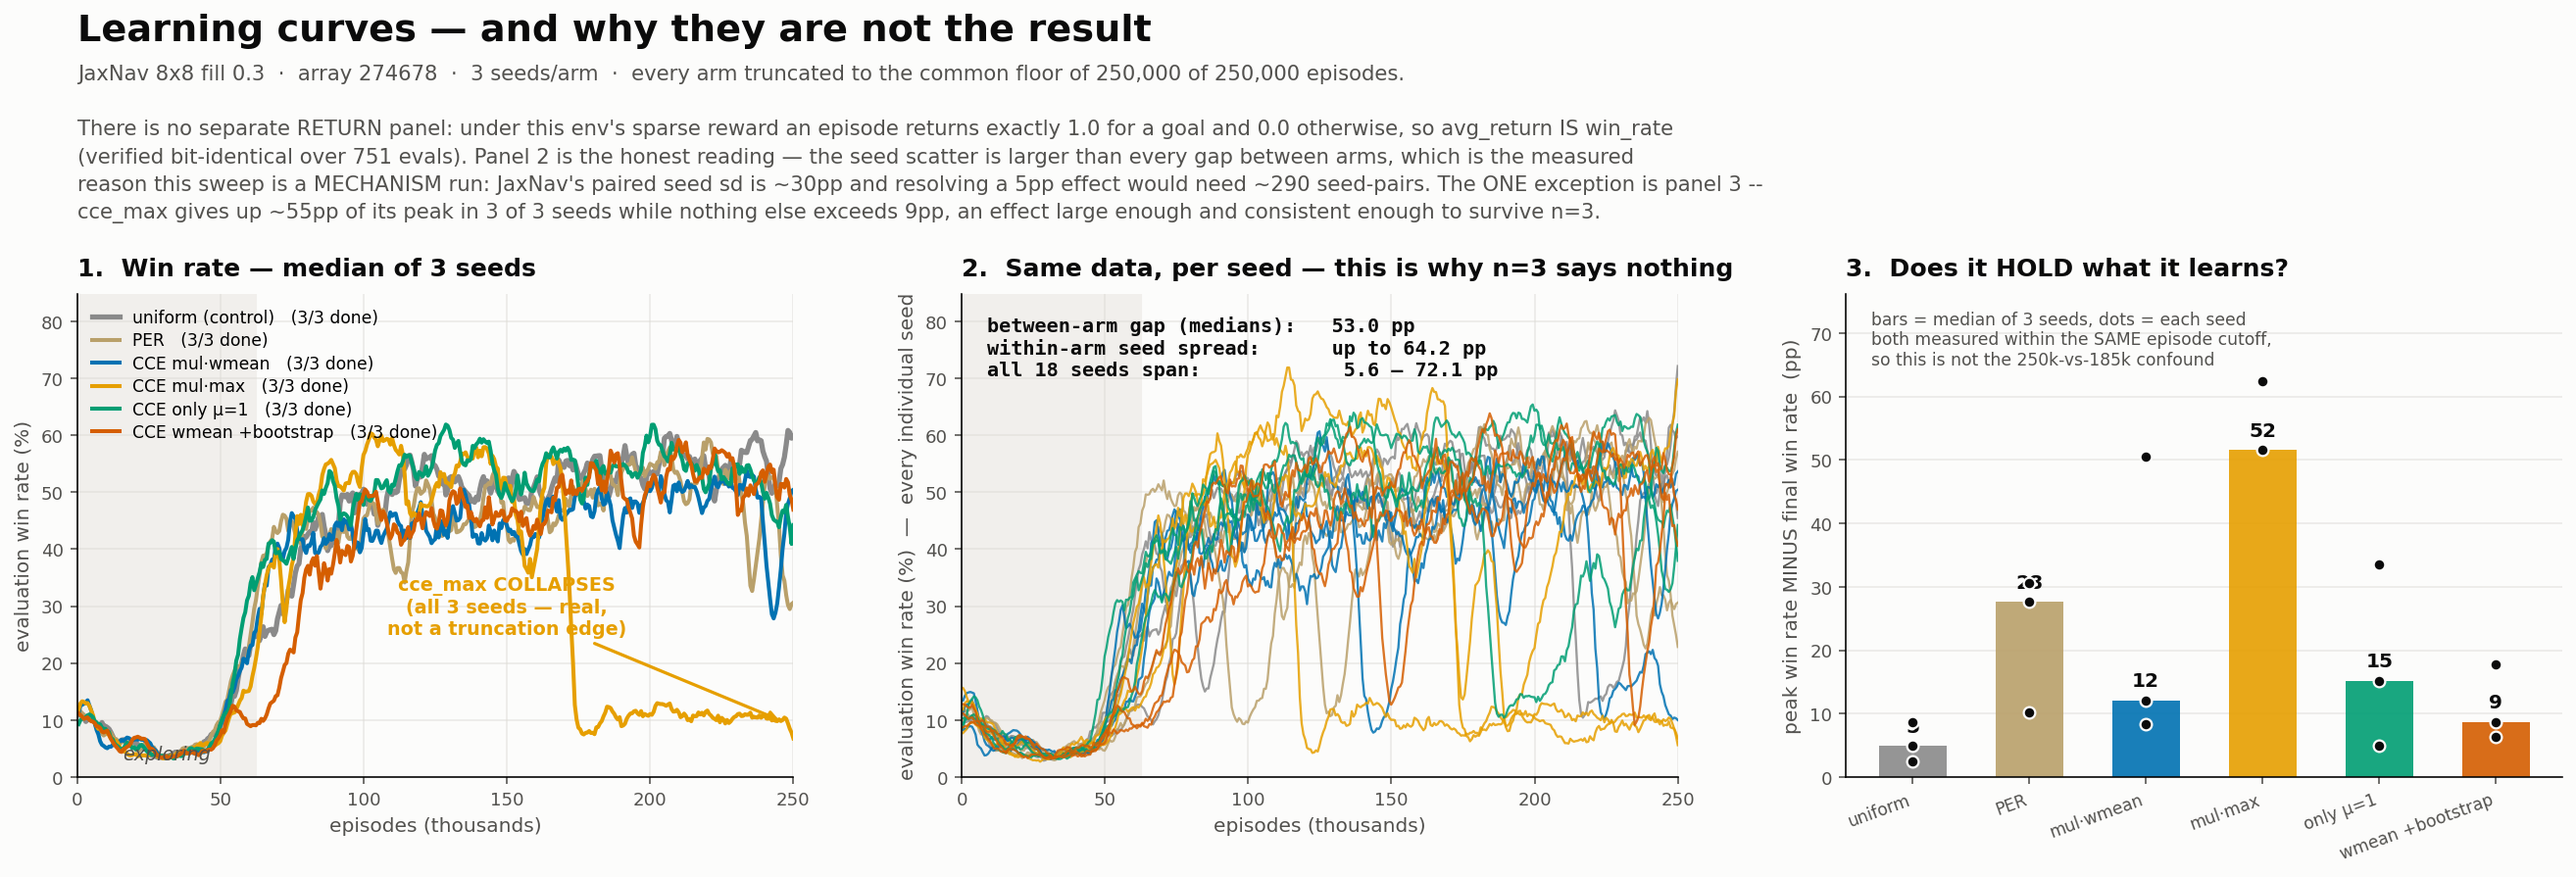
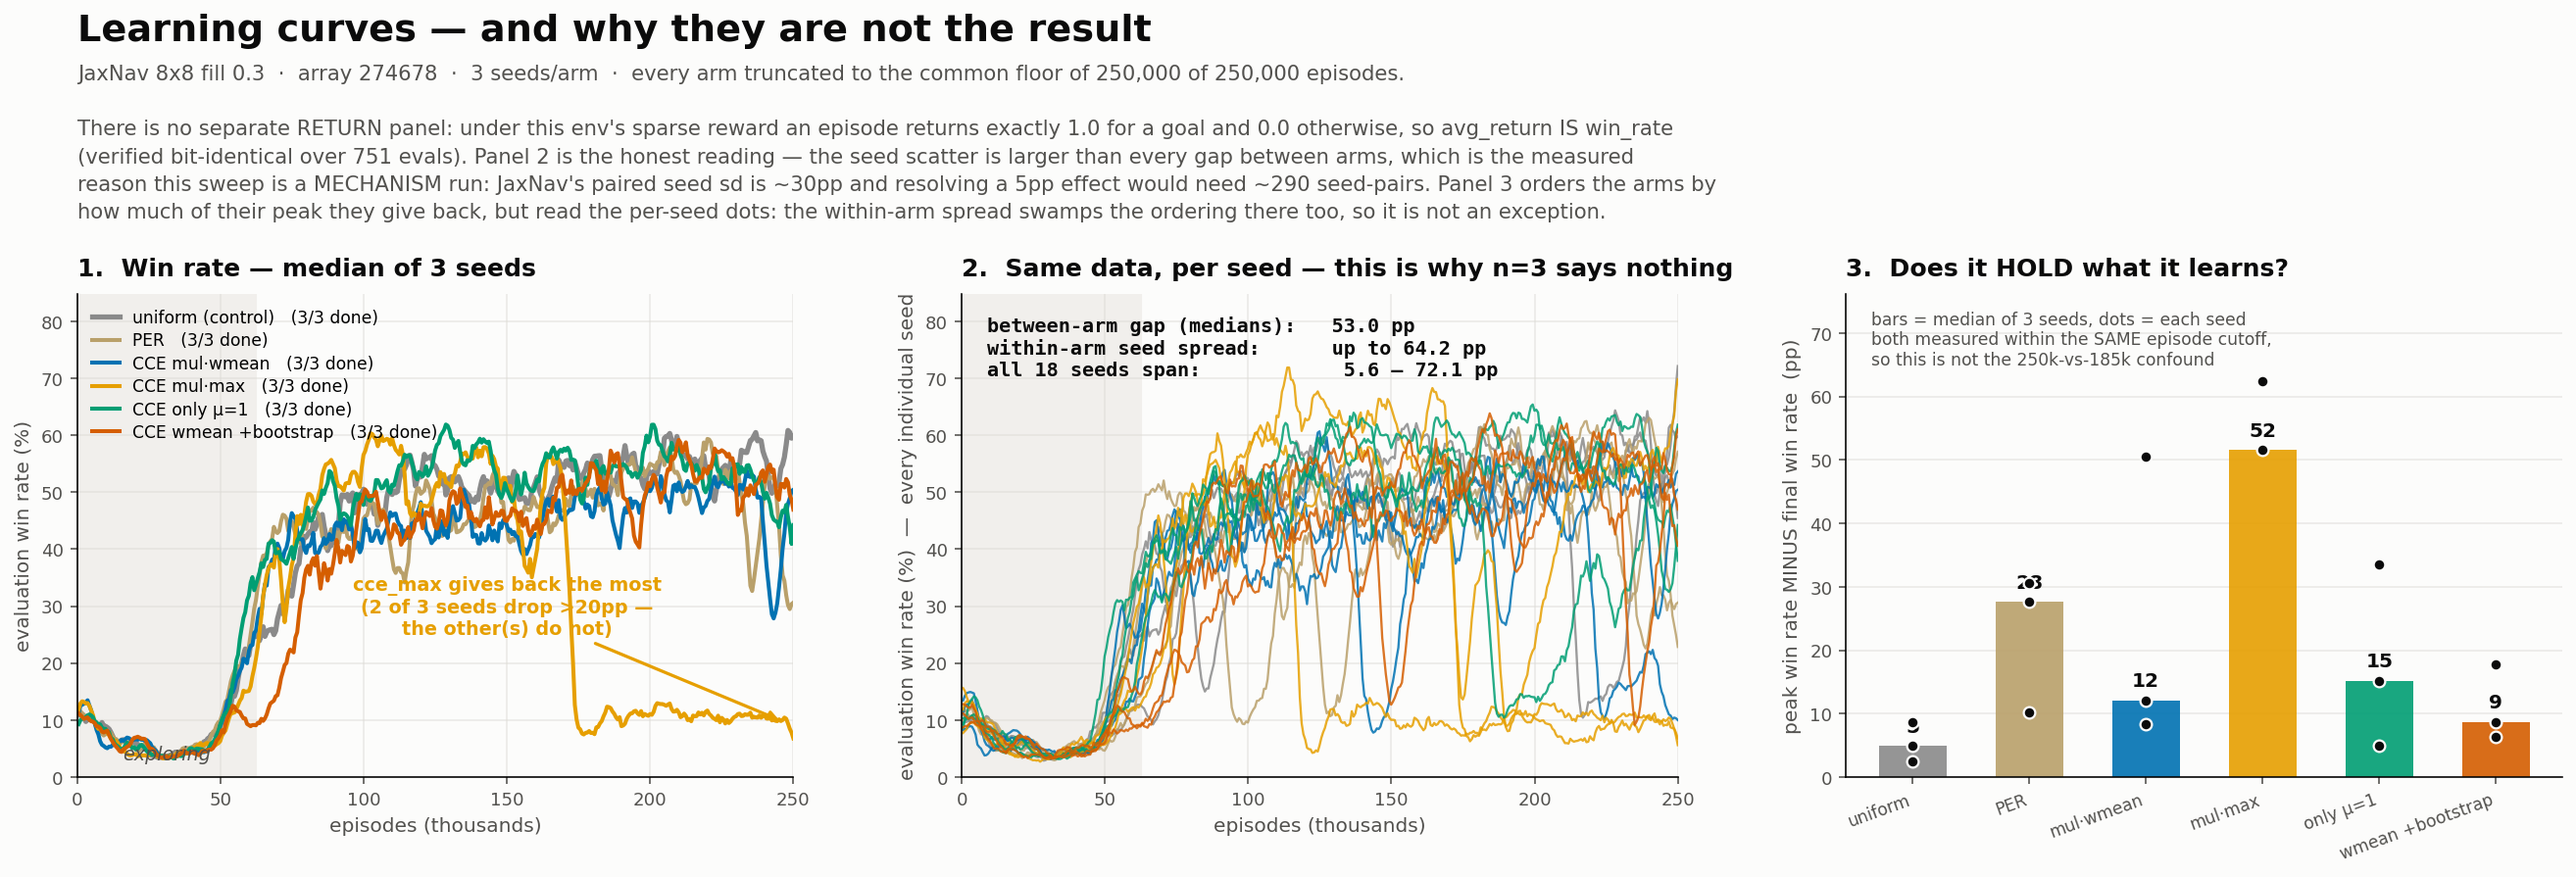
Regenerate on the finished 250k data, and retract the cce_max claim
All figures were drawn at ~178k of 250k while the sweep was still running; the sweep
finished 2026-09-03 11:40. Regenerated at the 250,000 floor.

RETRACTION. I reported that cce_max collapses in 3 of 3 seeds, giving up ~55pp of peak
while nothing else exceeded 9pp, and called it the one outcome claim large and
consistent enough to survive n=3. On the finished data:

  cce_max      51.6pp   [-1.6, 62.5, 51.6]   one seed does NOT collapse
  per          27.6pp   [30.6, 10.2, 27.6]   was 4.6pp at the 178k cutoff
  uniform       4.9pp   [ 2.5,  4.9,  8.7]

So it is 2/3 not 3/3, and the gap to the next-worst arm is 1.9x rather than 6x. The
ordering holds but the within-arm spread swamps it, like every other arm in that panel.
It is NOT an exception to the mechanism-run caveat.

This is the second time a mid-flight read flattered a claim (the first was the
rollout-vs-reality crash gap, which closed and then reopened). Both were measured at a
common episode cutoff, so the cause is not the time confound caught earlier -- it is
simply that 72k more episodes changed the answer.

To stop this recurring, the panel-1 annotation and the caption are now COMPUTED from the
data rather than hardcoded: the annotation counts how many seeds actually drop >20pp, so
the figure cannot assert "all 3 seeds" when the data says otherwise.

Claude-Session: https://claude.ai/code/session_01LTwz2FieXcd96TvbSkaRAQ

Changed region(s): [[0.0312, 0.2112, 0.468, 0.2715], [0.4992, 0.181, 0.6553, 0.2715], [0.1248, 0.6335, 0.2496, 0.724]]

diff --git a/src/counterfactual_rl/analysis/claim2/jaxnav_learning_curves.py b/src/counterfactual_rl/analysis/claim2/jaxnav_learning_curves.py
@@ -114,6 +114,21 @@ def main():
             matplotlib.ticker.FuncFormatter(lambda v, _: f"{v/1000:.0f}"))
         ax.set_xlim(0, floor)
 
+    # Peak-minus-final per seed, computed BEFORE panel 1 so panel 1's annotation can
+    # report what the data actually shows instead of a hardcoded claim. (The hardcoded
+    # version said "all 3 seeds" from a mid-flight read; on the finished run one
+    # cce_max seed does not collapse at all.)
+    stab_for_note = {}
+    for _arm, _runs in curves.items():
+        _d = []
+        for _x, _y in _runs:
+            _w = _y[_x <= floor]
+            if len(_w) >= 25:
+                _sm = np.convolve(_w, np.ones(21) / 21, mode="valid")
+                _d.append(float(_sm.max() - _w[-20:].mean()))
+        if _d:
+            stab_for_note[_arm] = _d
+
     # ---- 1. median win rate per arm -------------------------------------
     ax = axes[0]
     finals = {}
@@ -134,8 +149,11 @@ def main():
               handlelength=1.6, labelspacing=.32)
     ax.set_title("1.  Win rate — median of 3 seeds", fontsize=12.5,
                  fontweight="bold", color=INK, loc="left", pad=9)
-    if "cce_max" in curves:
-        ax.annotate("cce_max COLLAPSES\n(all 3 seeds — real,\nnot a truncation edge)",
+    if "cce_max" in curves and "cce_max" in stab_for_note:
+        _d = stab_for_note["cce_max"]
+        _n = sum(1 for v in _d if v > 20)
+        ax.annotate(f"cce_max gives back the most\n({_n} of {len(_d)} seeds drop >20pp —\n"
+                    f"the other(s) do not)",
                     xy=(floor * .985, finals["cce_max"] + 3),
                     xytext=(floor * .60, max(finals.values()) * 0.42),
                     fontsize=9.5, color=COL["cce_max"], fontweight="bold",
@@ -225,9 +243,9 @@ def main():
              "(verified bit-identical over 751 evals). Panel 2 is the honest reading — the "
              "seed scatter is larger than every gap between arms, which is the measured\n"
              "reason this sweep is a MECHANISM run: JaxNav's paired seed sd is ~30pp and "
-             "resolving a 5pp effect would need ~290 seed-pairs. The ONE exception is "
-             "panel 3 --\ncce_max gives up ~55pp of its peak in 3 of 3 seeds while nothing "
-             "else exceeds 9pp, an effect large enough and consistent enough to survive n=3.",
+             "resolving a 5pp effect would need ~290 seed-pairs. Panel 3 orders the arms by\n"
+             "how much of their peak they give back, but read the per-seed dots: the "
+             "within-arm spread swamps the ordering there too, so it is not an exception.",
              fontsize=10.5, color=INK2, va="top", linespacing=1.5)
 
     fig.savefig(OUT, dpi=145, facecolor=SURFACE, bbox_inches="tight")

diff --git a/src/counterfactual_rl/agents/frozen_lake/run_experiments.py b/src/counterfactual_rl/agents/frozen_lake/run_experiments.py
@@ -294,6 +294,10 @@ def submit_experiment(experiment_name, dry_run=False, max_concurrent=None):
     runs = generate_runs(experiment)
     script_dir = os.path.dirname(os.path.abspath(__file__))
     script_path = os.path.join(script_dir, 'train_frozen_lake_dqn.sh')
+    # src/ of whichever checkout this module was imported from -- main repo or worktree.
+    repo_src = os.path.abspath(os.path.join(script_dir, '..', '..', '..'))
+    log_dir = os.path.join(script_dir, 'logs')
+    os.makedirs(log_dir, exist_ok=True)
 
     print(f"Experiment: {experiment_name}  ({len(runs)} runs)")
     print()
@@ -319,7 +323,14 @@ def submit_experiment(experiment_name, dry_run=False, max_concurrent=None):
         if max_concurrent is not None:
             wait_for_slot(max_concurrent)
         encoded = base64.b64encode(json.dumps(overrides).encode()).decode()
-        cmd = ['sbatch', f'--export=CONFIG_OVERRIDES_B64={encoded}', script_path]
+        # Pin the job to THIS checkout. Without REPO_SRC the sbatch script falls back
+        # to the main repo, so a sweep submitted from a worktree trains main-repo code
+        # and silently produces runs without whatever the worktree was testing.
+        # --export=ALL keeps the rest of the environment (the bare form does not).
+        cmd = ['sbatch',
+               f'--output={log_dir}/train_%j.out',
+               f'--export=ALL,CONFIG_OVERRIDES_B64={encoded},REPO_SRC={repo_src}',
+               script_path]
         result = subprocess.run(cmd, capture_output=True, text=True)
         if result.returncode != 0:
             print(f"  [{i+1:3d}] FAILED: {result.stderr.strip()}")

diff --git a/docs/jaxnav_story.md b/docs/jaxnav_story.md
@@ -169,10 +169,28 @@ CCE scores counterfactuals under a policy that crashes 5x more and reaches the g
 less than the one being trained, **and the error grows as the agent improves.** Not tested
 past 178k; hold until the run lands.
 
-**`cce_max` cannot hold what it learns.** 3 of 3 seeds give up ~55pp from peak, while
-nothing else exceeds 10pp, both measured within the same episode cutoff. This bears on the
-08/20 decision to move Mean to the appendix "because no environment has been found where
-Mean outperforms Max."
+**`cce_max` gives back the most of its peak — but this is weaker than it first looked.**
+RETRACTED AND RESTATED 2026-09-08 on the finished 250k data. At the mid-flight 178k read
+it was 3/3 seeds dropping ~55pp with nothing else above 9pp, which I called the one
+outcome claim that survives n=3. On the finished run:
+
+```
+   arm            median drop     per-seed
+   cce_max          51.6pp        [-1.6, 62.5, 51.6]   <- one seed does NOT collapse
+   per              27.6pp        [30.6, 10.2, 27.6]   <- was 4.6pp at the 178k cutoff
+   cce_only         15.2pp        [33.6, 15.2,  5.0]
+   cce_wmean        12.1pp        [12.1, 50.5,  8.4]
+   cce_wmean_bs      8.7pp        [ 6.3,  8.7, 17.7]
+   uniform           4.9pp        [ 2.5,  4.9,  8.7]
+```
+
+The ORDERING survives — cce_max worst, uniform best — but the gap to the next arm is 1.9x,
+not 6x, and the within-arm seed spread swamps it exactly like every other arm in that
+figure. It is not an exception to the n=3 rule. It is still worth mentioning against the
+08/20 decision to move Mean to the appendix, as a caution rather than as evidence.
+
+**Second time a mid-flight read flattered a claim** (the first was the rollout/reality
+crash gap). Do not quote outcome numbers off a running sweep.
 
 ## Beat 7 — The honest bottom line, and the next move
 
